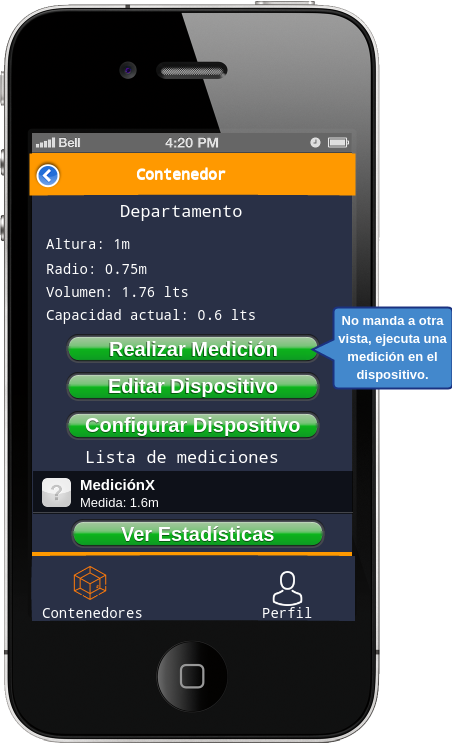
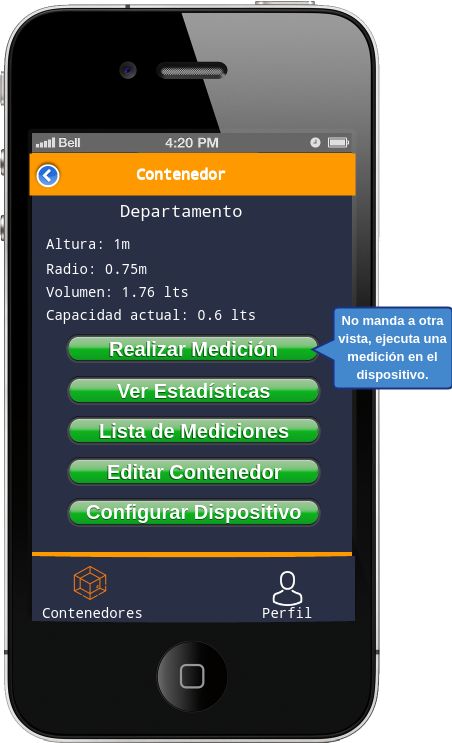
Ok

Changed region(s): [[0.0619, 0.4953, 0.8053, 0.7429]]

diff --git a/index.html b/index.html
@@ -1,2 +1,2 @@
 <html xmlns="http://www.w3.org/1999/xhtml" xmlns:p="http://www.evolus.vn/Namespace/Pencil" xmlns:html="http://www.w3.org/1999/xhtml"><head><meta http-equiv="Content-Type" content="text/html; charset=UTF-8" />
-<title>ContainersApp</title><link rel="stylesheet" href="Resources/SampleStyle.css" /></head><body><h1 id="documentTitle">ContainersApp</h1><p id="documentMetadata">Exported at: Wed Jul 10 2019 16:04:59 GMT-0500 (CDT)</p><div class="Page" id="login_page"><h2>Login</h2><div class="ImageContainer"><img src="pages/login.png" width="380" height="743" usemap="#map_login" /></div><map name="map_login"><area shape="rect" coords="74,558.8125,311.625,572.8125" href="#register_page" title="Go to page 'Register'" /><area shape="rect" coords="53,473,331,518" href="#contenedores_page" title="Go to page 'Contenedores'" /></map></div><div class="Page" id="register_page"><h2>Register</h2><div class="ImageContainer"><img src="pages/register.png" width="380" height="743" usemap="#map_register" /></div><map name="map_register"><area shape="rect" coords="63,582.8125,322.234375,596.8125" href="#login_page" title="Go to page 'Login'" /><area shape="rect" coords="53,527,331,572" href="#contenedores_page" title="Go to page 'Contenedores'" /></map></div><div class="Page" id="contenedores_page"><h2>Contenedores</h2><div class="ImageContainer"><img src="pages/contenedores.png" width="380" height="743" usemap="#map_contenedores" /></div><map name="map_contenedores"><area shape="rect" coords="322,157,352,186" href="#crear_contenedor_page" title="Go to page 'Crear Contenedor'" /><area shape="rect" coords="33,394,353,437" href="#ver_contenedor_page" title="Go to page 'Ver Contenedor'" /><area shape="rect" coords="33,346,353,389" href="#ver_contenedor_page" title="Go to page 'Ver Contenedor'" /><area shape="rect" coords="33,296,353,339" href="#ver_contenedor_page" title="Go to page 'Ver Contenedor'" /><area shape="rect" coords="32,248,352,291" href="#ver_contenedor_page" title="Go to page 'Ver Contenedor'" /><area shape="rect" coords="32,198,352,241" href="#ver_contenedor_page" title="Go to page 'Ver Contenedor'" /><area shape="rect" coords="270,568,305,603" href="#perfil_page" title="Go to page 'Perfil'" /><area shape="rect" coords="262,602.40625,312.40625,618.40625" href="#perfil_page" title="Go to page 'Perfil'" /></map></div><div class="Page" id="crear_contenedor_page"><h2>Crear Contenedor</h2><div class="ImageContainer"><img src="pages/crear_contenedor.png" width="380" height="743" usemap="#map_crear_contenedor" /></div><map name="map_crear_contenedor"><area shape="rect" coords="35,153,65,182" href="#contenedores_page" title="Go to page 'Contenedores'" /><area shape="rect" coords="53,547,331,592" href="#contenedores_page" title="Go to page 'Contenedores'" /></map></div><div class="Page" id="ver_contenedor_page"><h2>Ver Contenedor</h2><div class="ImageContainer"><img src="pages/ver_contenedor.png" width="452" height="743" usemap="#map_ver_contenedor" /></div><map name="map_ver_contenedor"><area shape="rect" coords="33,160,63,189" href="#contenedores_page" title="Go to page 'Contenedores'" /><area shape="rect" coords="270,571,305,606" href="#perfil_page" title="Go to page 'Perfil'" /><area shape="rect" coords="262,605.40625,312.40625,621.40625" href="#perfil_page" title="Go to page 'Perfil'" /><area shape="rect" coords="73,566,107,600" href="#contenedores_page" title="Go to page 'Contenedores'" /><area shape="rect" coords="71,519,325,548" href="#estadsticas_page" title="Go to page 'Estadísticas'" /><area shape="rect" coords="66,411,320,440" href="#configurar_dispositivo_page" title="Go to page 'Configurar dispositivo'" /><area shape="rect" coords="66,372,320,401" href="#editar_contenedor_page" title="Go to page 'Editar Contenedor'" /><area shape="rect" coords="33,471,353,514" href="#ver_contenedor_page" title="Go to page 'Ver Contenedor'" /><area shape="rect" coords="32,531,357,574" href="#ver_contenedor_page" title="Go to page 'Ver Contenedor'" /></map></div><div class="Page" id="editar_contenedor_page"><h2>Editar Contenedor</h2><div class="ImageContainer"><img src="pages/editar_contenedor.png" width="380" height="743" usemap="#map_editar_contenedor" /></div><map name="map_editar_contenedor"><area shape="rect" coords="35,153,65,182" href="#ver_contenedor_page" title="Go to page 'Ver Contenedor'" /><area shape="rect" coords="53,530,331,575" href="#ver_contenedor_page" title="Go to page 'Ver Contenedor'" /></map></div><div class="Page" id="estadsticas_page"><h2>Estadísticas</h2><div class="ImageContainer"><img src="pages/estadsticas.png" width="380" height="743" usemap="#map_estadsticas" /></div><map name="map_estadsticas"><area shape="rect" coords="33,157,63,186" href="#ver_contenedor_page" title="Go to page 'Ver Contenedor'" /><area shape="rect" coords="33,530,358,573" href="#ver_contenedor_page" title="Go to page 'Ver Contenedor'" /></map></div><div class="Page" id="configurar_dispositivo_page"><h2>Configurar dispositivo</h2><div class="ImageContainer"><img src="pages/configurar_dispositivo.png" width="380" height="743" usemap="#map_configurar_dispositivo" /></div><map name="map_configurar_dispositivo"><area shape="rect" coords="0,0,380,743" href="#ver_contenedor_page" title="Go to page 'Ver Contenedor'" /><area shape="rect" coords="35,156,65,185" href="#ver_contenedor_page" title="Go to page 'Ver Contenedor'" /><area shape="rect" coords="269,563,304,598" href="#perfil_page" title="Go to page 'Perfil'" /><area shape="rect" coords="261,597.40625,311.40625,613.40625" href="#perfil_page" title="Go to page 'Perfil'" /><area shape="rect" coords="42,597.40625,142.8125,613.40625" href="#contenedores_page" title="Go to page 'Contenedores'" /><area shape="rect" coords="72,557,113,598" href="#contenedores_page" title="Go to page 'Contenedores'" /><area shape="rect" coords="33,524,358,567" href="#ver_contenedor_page" title="Go to page 'Ver Contenedor'" /></map></div><div class="Page" id="perfil_page"><h2>Perfil</h2><div class="ImageContainer"><img src="pages/perfil.png" width="402" height="743" usemap="#map_perfil" /></div><map name="map_perfil"><area shape="rect" coords="53,488,331,533" href="#register_page" title="Go to page 'Register'" /><area shape="rect" coords="41,606.40625,141.8125,622.40625" href="#contenedores_page" title="Go to page 'Contenedores'" /><area shape="rect" coords="71,566,112,607" href="#contenedores_page" title="Go to page 'Contenedores'" /></map></div></body></html>
+<title>ContainersApp</title><link rel="stylesheet" href="Resources/SampleStyle.css" /></head><body><h1 id="documentTitle">ContainersApp</h1><p id="documentMetadata">Exported at: Wed Jul 10 2019 16:42:20 GMT-0500 (CDT)</p><div class="Page" id="login_page"><h2>Login</h2><div class="ImageContainer"><img src="pages/login.png" width="380" height="743" usemap="#map_login" /></div><map name="map_login"><area shape="rect" coords="74,558.8125,311.625,572.8125" href="#register_page" title="Go to page 'Register'" /><area shape="rect" coords="53,473,331,518" href="#contenedores_page" title="Go to page 'Contenedores'" /></map></div><div class="Page" id="register_page"><h2>Register</h2><div class="ImageContainer"><img src="pages/register.png" width="380" height="743" usemap="#map_register" /></div><map name="map_register"><area shape="rect" coords="63,582.8125,322.234375,596.8125" href="#login_page" title="Go to page 'Login'" /><area shape="rect" coords="53,527,331,572" href="#contenedores_page" title="Go to page 'Contenedores'" /></map></div><div class="Page" id="contenedores_page"><h2>Contenedores</h2><div class="ImageContainer"><img src="pages/contenedores.png" width="380" height="743" usemap="#map_contenedores" /></div><map name="map_contenedores"><area shape="rect" coords="322,157,352,186" href="#crear_contenedor_page" title="Go to page 'Crear Contenedor'" /><area shape="rect" coords="33,394,353,437" href="#ver_contenedor_page" title="Go to page 'Ver Contenedor'" /><area shape="rect" coords="33,346,353,389" href="#ver_contenedor_page" title="Go to page 'Ver Contenedor'" /><area shape="rect" coords="33,296,353,339" href="#ver_contenedor_page" title="Go to page 'Ver Contenedor'" /><area shape="rect" coords="32,248,352,291" href="#ver_contenedor_page" title="Go to page 'Ver Contenedor'" /><area shape="rect" coords="32,198,352,241" href="#ver_contenedor_page" title="Go to page 'Ver Contenedor'" /><area shape="rect" coords="270,568,305,603" href="#perfil_page" title="Go to page 'Perfil'" /><area shape="rect" coords="262,602.40625,312.40625,618.40625" href="#perfil_page" title="Go to page 'Perfil'" /></map></div><div class="Page" id="crear_contenedor_page"><h2>Crear Contenedor</h2><div class="ImageContainer"><img src="pages/crear_contenedor.png" width="380" height="743" usemap="#map_crear_contenedor" /></div><map name="map_crear_contenedor"><area shape="rect" coords="35,153,65,182" href="#contenedores_page" title="Go to page 'Contenedores'" /><area shape="rect" coords="53,547,331,592" href="#contenedores_page" title="Go to page 'Contenedores'" /></map></div><div class="Page" id="ver_contenedor_page"><h2>Ver Contenedor</h2><div class="ImageContainer"><img src="pages/ver_contenedor.png" width="452" height="743" usemap="#map_ver_contenedor" /></div><map name="map_ver_contenedor"><area shape="rect" coords="67,416,321,445" href="#lista_de_mediciones_page" title="Go to page 'Lista de Mediciones'" /><area shape="rect" coords="33,160,63,189" href="#contenedores_page" title="Go to page 'Contenedores'" /><area shape="rect" coords="270,571,305,606" href="#perfil_page" title="Go to page 'Perfil'" /><area shape="rect" coords="262,605.40625,312.40625,621.40625" href="#perfil_page" title="Go to page 'Perfil'" /><area shape="rect" coords="73,566,107,600" href="#contenedores_page" title="Go to page 'Contenedores'" /><area shape="rect" coords="67,376,321,405" href="#estadsticas_page" title="Go to page 'Estadísticas'" /><area shape="rect" coords="67,498,321,527" href="#configurar_dispositivo_page" title="Go to page 'Configurar dispositivo'" /><area shape="rect" coords="67,457,321,486" href="#editar_contenedor_page" title="Go to page 'Editar Contenedor'" /><area shape="rect" coords="32,531,357,574" href="#ver_contenedor_page" title="Go to page 'Ver Contenedor'" /></map></div><div class="Page" id="lista_de_mediciones_page"><h2>Lista de Mediciones</h2><div class="ImageContainer"><img src="pages/lista_de_mediciones.png" width="380" height="743" usemap="#map_lista_de_mediciones" /></div><map name="map_lista_de_mediciones"><area shape="rect" coords="32,395,352,438" href="#ver_contenedor_page" title="Go to page 'Ver Contenedor'" /><area shape="rect" coords="30,339,350,382" href="#ver_contenedor_page" title="Go to page 'Ver Contenedor'" /><area shape="rect" coords="30,283,350,326" href="#ver_contenedor_page" title="Go to page 'Ver Contenedor'" /><area shape="rect" coords="32,160,62,189" href="#ver_contenedor_page" title="Go to page 'Ver Contenedor'" /><area shape="rect" coords="30,229,350,272" href="#ver_contenedor_page" title="Go to page 'Ver Contenedor'" /><area shape="rect" coords="31,531,356,574" href="#ver_contenedor_page" title="Go to page 'Ver Contenedor'" /></map></div><div class="Page" id="editar_contenedor_page"><h2>Editar Contenedor</h2><div class="ImageContainer"><img src="pages/editar_contenedor.png" width="380" height="743" usemap="#map_editar_contenedor" /></div><map name="map_editar_contenedor"><area shape="rect" coords="35,153,65,182" href="#ver_contenedor_page" title="Go to page 'Ver Contenedor'" /><area shape="rect" coords="53,530,331,575" href="#ver_contenedor_page" title="Go to page 'Ver Contenedor'" /></map></div><div class="Page" id="estadsticas_page"><h2>Estadísticas</h2><div class="ImageContainer"><img src="pages/estadsticas.png" width="380" height="743" usemap="#map_estadsticas" /></div><map name="map_estadsticas"><area shape="rect" coords="33,157,63,186" href="#ver_contenedor_page" title="Go to page 'Ver Contenedor'" /><area shape="rect" coords="33,530,358,573" href="#ver_contenedor_page" title="Go to page 'Ver Contenedor'" /></map></div><div class="Page" id="configurar_dispositivo_page"><h2>Configurar dispositivo</h2><div class="ImageContainer"><img src="pages/configurar_dispositivo.png" width="380" height="743" usemap="#map_configurar_dispositivo" /></div><map name="map_configurar_dispositivo"><area shape="rect" coords="0,0,380,743" href="#ver_contenedor_page" title="Go to page 'Ver Contenedor'" /><area shape="rect" coords="35,156,65,185" href="#ver_contenedor_page" title="Go to page 'Ver Contenedor'" /><area shape="rect" coords="269,563,304,598" href="#perfil_page" title="Go to page 'Perfil'" /><area shape="rect" coords="261,597.40625,311.40625,613.40625" href="#perfil_page" title="Go to page 'Perfil'" /><area shape="rect" coords="42,597.40625,142.8125,613.40625" href="#contenedores_page" title="Go to page 'Contenedores'" /><area shape="rect" coords="72,557,113,598" href="#contenedores_page" title="Go to page 'Contenedores'" /><area shape="rect" coords="33,524,358,567" href="#ver_contenedor_page" title="Go to page 'Ver Contenedor'" /></map></div><div class="Page" id="perfil_page"><h2>Perfil</h2><div class="ImageContainer"><img src="pages/perfil.png" width="402" height="743" usemap="#map_perfil" /></div><map name="map_perfil"><area shape="rect" coords="53,488,331,533" href="#register_page" title="Go to page 'Register'" /><area shape="rect" coords="41,606.40625,141.8125,622.40625" href="#contenedores_page" title="Go to page 'Contenedores'" /><area shape="rect" coords="71,566,112,607" href="#contenedores_page" title="Go to page 'Contenedores'" /></map></div></body></html>
